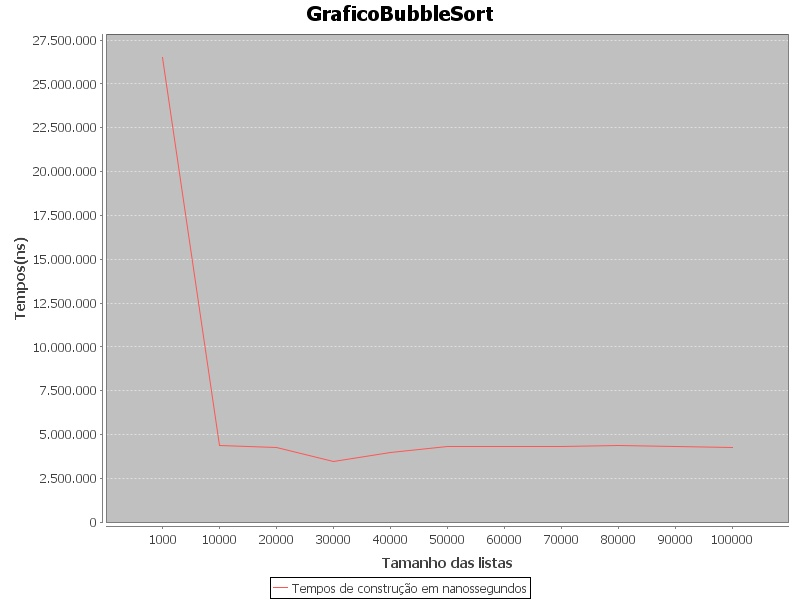
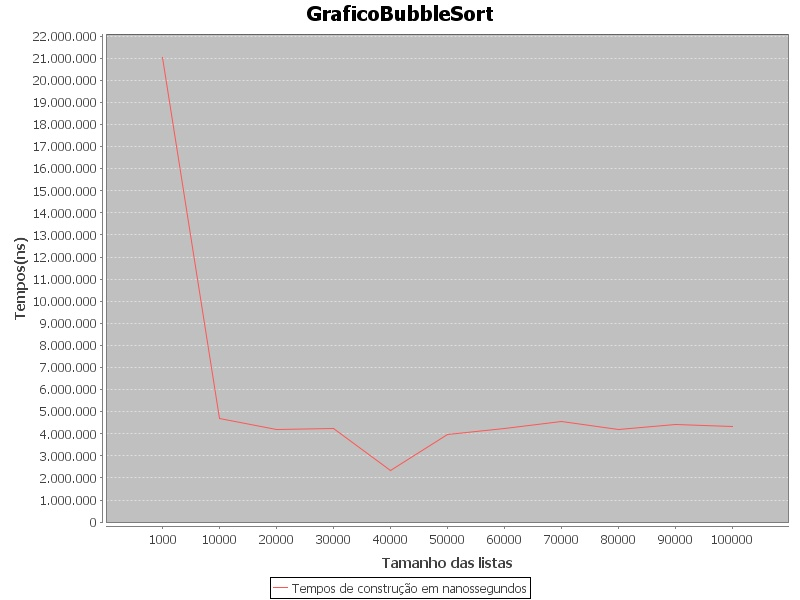
Melhorias de caminhos relativos e legibilidade.

diff --git a/src/test/java/grupo/ordena20182/AleatorioTest.java b/src/test/java/grupo/ordena20182/AleatorioTest.java
@@ -7,13 +7,11 @@ public class AleatorioTest{
         Lista<Lista<Integer>> listas=new Lista<>(); // nunca sera usado
         Lista<Integer> tamanhos=new Lista<>(1000,10000,20000,30000,40000,50000,60000,70000,80000,90000,100000);
         Lista<Par<Integer,Long>> pares=new Lista<>();
-
         for(Integer tamanho:tamanhos) {
             Long temp=System.nanoTime();
             listas.add(Aleatorio.novaLista(1000,-10,10));
             pares.adiciona(new Par(tamanho,System.nanoTime()-temp));
         }
-
         GraficoDeLinha<Integer,Long> grafico=new GraficoDeLinha<>();
         grafico.adicionaConjuntoDeDados(pares,"Tempos de construção em nanossegundos");
         grafico.criaGrafico("Tamanho das listas","Tempos(ns)","GraficoDeTempos");
@@ -37,16 +35,13 @@ public class AleatorioTest{
         Lista<Lista<Integer>> listas=new Lista<>(); // nunca sera usado
         Lista<Integer> tamanhos=new Lista<>(1000,10000,20000,30000,40000,50000,60000,70000,80000,90000,100000);
         Lista<Par<Integer,Long>> pares=new Lista<>();
-
         for(Integer t:tamanhos)
             listas.add(Aleatorio.novaLista(1000,-10,10));
-
         for(int i=0;i<listas.size();i++) {
             Long temp=System.nanoTime();
             listas.set(i,Ordena.bubbleSort(listas.get(i)));
             pares.adiciona(new Par(tamanhos.get(i),System.nanoTime()-temp));
         }
-
         GraficoDeLinha<Integer,Long> grafico=new GraficoDeLinha<>();
         grafico.adicionaConjuntoDeDados(pares,"Tempos de construção em nanossegundos");
         grafico.criaGrafico("Tamanho das listas","Tempos(ns)","GraficoBubbleSort");
@@ -56,16 +51,13 @@ public class AleatorioTest{
         Lista<Lista<Integer>> listas=new Lista<>(); // nunca sera usado
         Lista<Integer> tamanhos=new Lista<>(1000,10000,20000,30000,40000,50000,60000,70000,80000,90000,100000);
         Lista<Par<Integer,Long>> pares=new Lista<>();
-
         for(Integer t:tamanhos)
             listas.add(Aleatorio.novaLista(1000,-10,10));
-
         for(int i=0;i<listas.size();i++) {
             Long temp=System.nanoTime();
             listas.set(i,Ordena.selectionSort(listas.get(i)));
             pares.adiciona(new Par(tamanhos.get(i),System.nanoTime()-temp));
         }
-
         GraficoDeLinha<Integer,Long> grafico=new GraficoDeLinha<>();
         grafico.adicionaConjuntoDeDados(pares,"Tempos de construção em nanossegundos");
         grafico.criaGrafico("Tamanho das listas","Tempos(ns)","GraficoSelectionSort");

diff --git a/src/main/java/grupo/ordena20182/Ordena.java b/src/main/java/grupo/ordena20182/Ordena.java
@@ -1,40 +1,24 @@
-/*
- * To change this license header, choose License Headers in Project Properties.
- * To change this template file, choose Tools | Templates
- * and open the template in the editor.
- */
 package grupo.ordena20182;
 
-/**
- *
- * @author psdav
- */
 public class Ordena{
 
-    public static Lista<Integer> bubbleSort(Lista<Integer> vetor){
-        for(int i=0;i<vetor.size();i++)
-            for(int j=0;j<vetor.size()-1;j++)
-                if(vetor.get(j)>vetor.get(j+1)){
-                    int aux=vetor.get(j);
-                    vetor.set(j,vetor.get(j+1));
-                    vetor.set(j+1,aux);
-                }
-        return vetor;
+    public static Lista<Integer> bubbleSort(Lista<Integer> elementos){
+        for(Integer e:elementos)
+            for(int j=0;j<elementos.size()-1;j++)
+                if(elementos.get(j)>elementos.get(j+1))
+                    elementos.trocaElementos(j,j+1);
+        return elementos;
     }
 
-    public static Lista<Integer> selectionSort(Lista<Integer> lista){
-        for(int fixo=0;fixo<lista.size()-1;fixo++) {
+    public static Lista<Integer> selectionSort(Lista<Integer> elementos){
+        for(int fixo=0;fixo<elementos.size()-1;fixo++) {
             int menor=fixo;
-
-            for(int i=menor+1;i<lista.size();i++)
-                if(lista.get(i)<lista.get(menor))
+            for(int i=menor+1;i<elementos.size();i++)
+                if(elementos.get(i)<elementos.get(menor))
                     menor=i;
-            if(menor!=fixo){
-                int t=lista.get(fixo);
-                lista.set(fixo,lista.get(menor));
-                lista.set(menor,t);
-            }
+            if(menor!=fixo)
+                elementos.trocaElementos(fixo,menor);
         }
-        return lista;
+        return elementos;
     }
 }

diff --git a/src/main/java/grupo/ordena20182/Lista.java b/src/main/java/grupo/ordena20182/Lista.java
@@ -198,5 +198,4 @@ public class Lista<T extends Comparable<T>> extends ArrayList<T> implements Iter
     public T subtraiElemento(int indice){
         return remove(indice);
     }
-
 }
